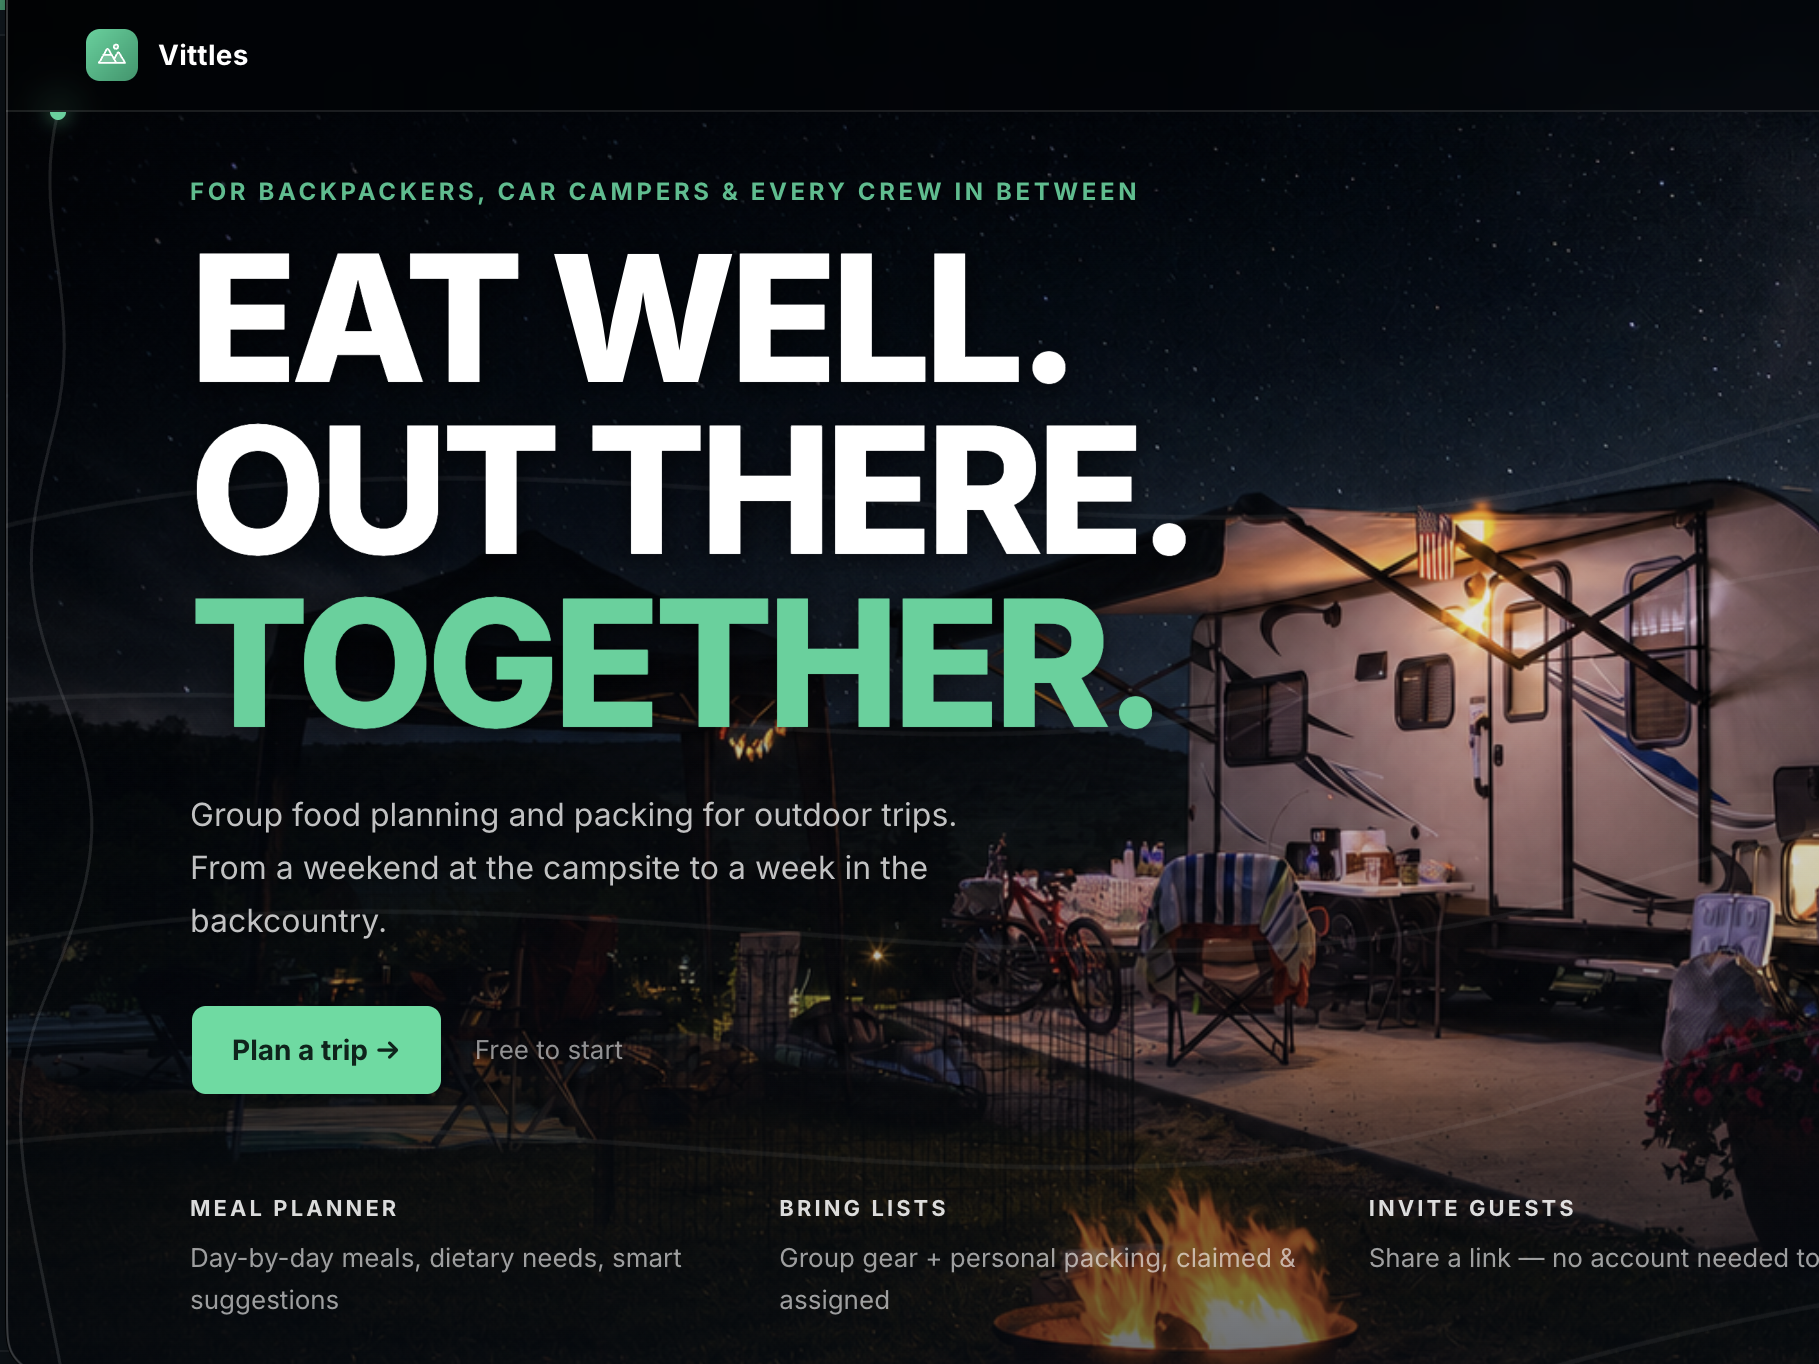
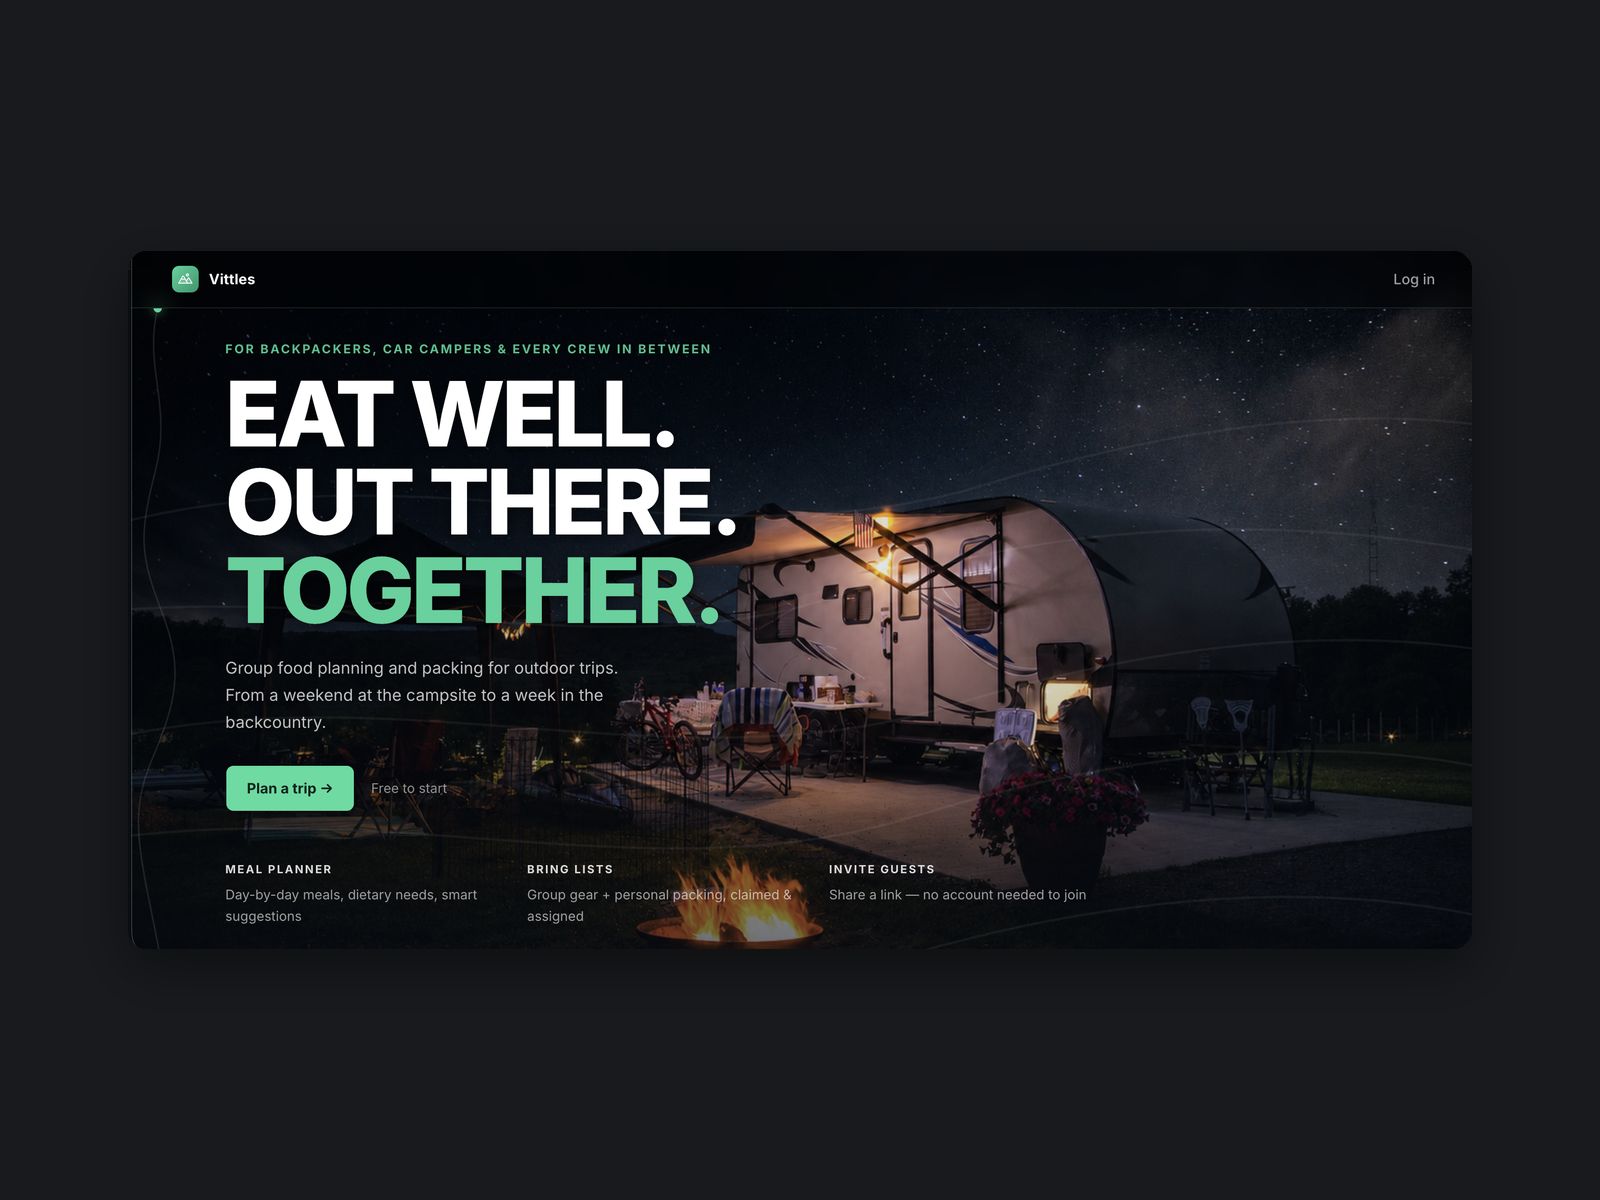
fixed project covers

diff --git a/src/components/v2/CaseStudyLightbox.tsx b/src/components/v2/CaseStudyLightbox.tsx
@@ -26,9 +26,22 @@ import 'yet-another-react-lightbox/plugins/captions.css';
 
 interface Props {
   slides: Slide[];
+  /**
+   * The project this instance belongs to.
+   *
+   * REQUIRED for correctness, not decoration. The homepage renders one case
+   * study per project, each inside its own <dialog>, so several of these
+   * islands are alive at once. The first version queried
+   * `[data-cs-shot]` across the whole document, which meant every instance
+   * bound to every plate on the page: clicking one project's third plate
+   * opened index 2 of ALL THREE projects simultaneously, and whichever
+   * painted last was the one you saw. The indices were per-project; the
+   * selector was not.
+   */
+  group: string;
 }
 
-export default function CaseStudyLightbox({ slides }: Props) {
+export default function CaseStudyLightbox({ slides, group }: Props) {
   const [index, setIndex] = useState(-1);
   const [portalRoot, setPortalRoot] = useState<HTMLElement | null>(null);
 
@@ -36,7 +49,9 @@ export default function CaseStudyLightbox({ slides }: Props) {
 
   useEffect(() => {
     const triggers = Array.from(
-      document.querySelectorAll<HTMLElement>('[data-cs-shot]'),
+      document.querySelectorAll<HTMLElement>(
+        `[data-cs-group="${CSS.escape(group)}"][data-cs-shot]`,
+      ),
     );
 
     const onClick = (event: Event) => {
@@ -49,9 +64,7 @@ export default function CaseStudyLightbox({ slides }: Props) {
 
     triggers.forEach((el) => el.addEventListener('click', onClick));
     return () => triggers.forEach((el) => el.removeEventListener('click', onClick));
-    // Re-bound whenever the slide set changes, which is how a different
-    // project's plates get picked up when the dialog swaps content.
-  }, [slides]);
+  }, [slides, group]);
 
   return (
     <Lightbox

diff --git a/src/data/projectsV2.ts b/src/data/projectsV2.ts
@@ -86,8 +86,7 @@ export const PROJECTS_V2: ProjectV2[] = [
     status: null,
     tag: 'A bake journal that reads your loaf and tells you what the crumb means.',
     cover: crumbCover,
-    coverAlt:
-      "The Crumb's landing headline, \"Read between the crumbs\", above a Start your bake log button.",
+    coverAlt: "Lev, The Crumb's illustrated sourdough mascot, smiling.",
     para:
       'Sourdough has a slow feedback loop — change one variable, wait a week, guess at the result. The Crumb closes it. You log a bake, photograph the crumb, and get a structured read on fermentation, crust and shaping, scored against the numbers you actually used. Around the journal sit interactive models — a fermentation activity curve, a live starter ecosystem — that explain why the loaf turned out the way it did. Product, design, front end, backend and deployment are all mine.',
     notes: [
@@ -220,7 +219,7 @@ export const PROJECTS_V2: ProjectV2[] = [
     tag: 'Meal planning for every scenario at once. It got out of hand.',
     cover: mealtripCover,
     coverAlt:
-      "MealTrip's landing headline, \"Plan food for your dinner party\", above Start Planning Free.",
+      "MealTrip's My Kitchen screen: a personal recipe library shown as cards with food photography.",
     para:
       'The idea was one planner that could handle any eating situation — weeknights, dinner parties, road trips, backpacking, restrictions, budgets. Every scenario I added made the data model more general and the interface less usable, until the thing could describe any meal plan and help with none of them. I stopped before launch. Vittles is what that lesson turned into: a few scenarios taken seriously.',
     notes: [
